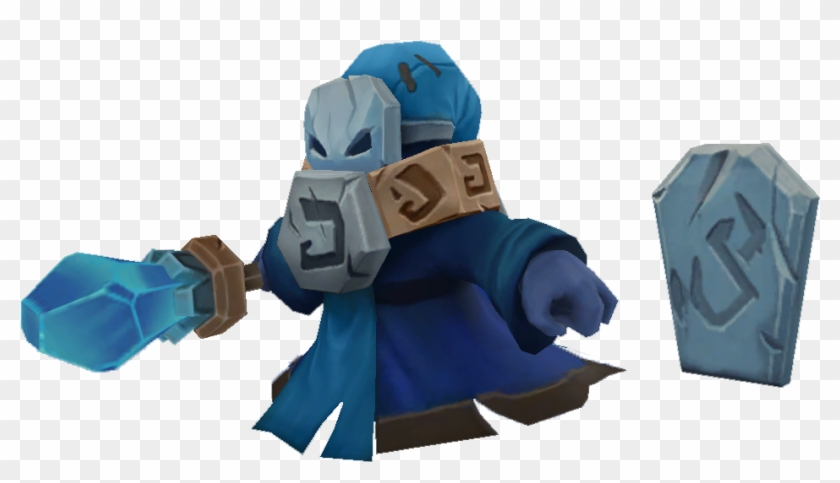
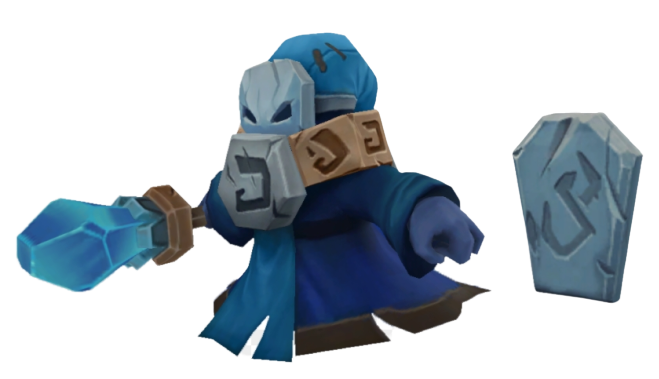
day 3 - minion

diff --git a/src/inks/Day3/index.js b/src/inks/Day3/index.js
@@ -5,6 +5,8 @@ import Emoji from '../../components/Emoji';
 
 import imgMapa from '../../img/mapa-lol.png';
 
+import Minion from './Minion';
+
 const Container = styled.div`
 	width: 100%;
 	height: 100%;
@@ -16,12 +18,13 @@ const InkDay3 = () => {
 
 	return (
 		<Container>
+			<Minion></Minion>
 		</Container>
 	);
 
 }
 
-const InkDay3Desc = () => <span>Free farm... <Emoji emoji="💰" /></span>
+const InkDay3Desc = () => <span>Free farm... <Emoji emoji="💰🙃" /></span>
 
 export default InkDay3;
 

diff --git a/src/inks/Day3/Minion.js b/src/inks/Day3/Minion.js
@@ -1,0 +1,7 @@
+import React from 'react';
+
+import imgMinion from '../../img/minion-life.png';
+
+const Minion = ({x, y}) => <img style={{position: 'absolute', left: '10px'}} src={imgMinion}></img>
+
+export default Minion;
